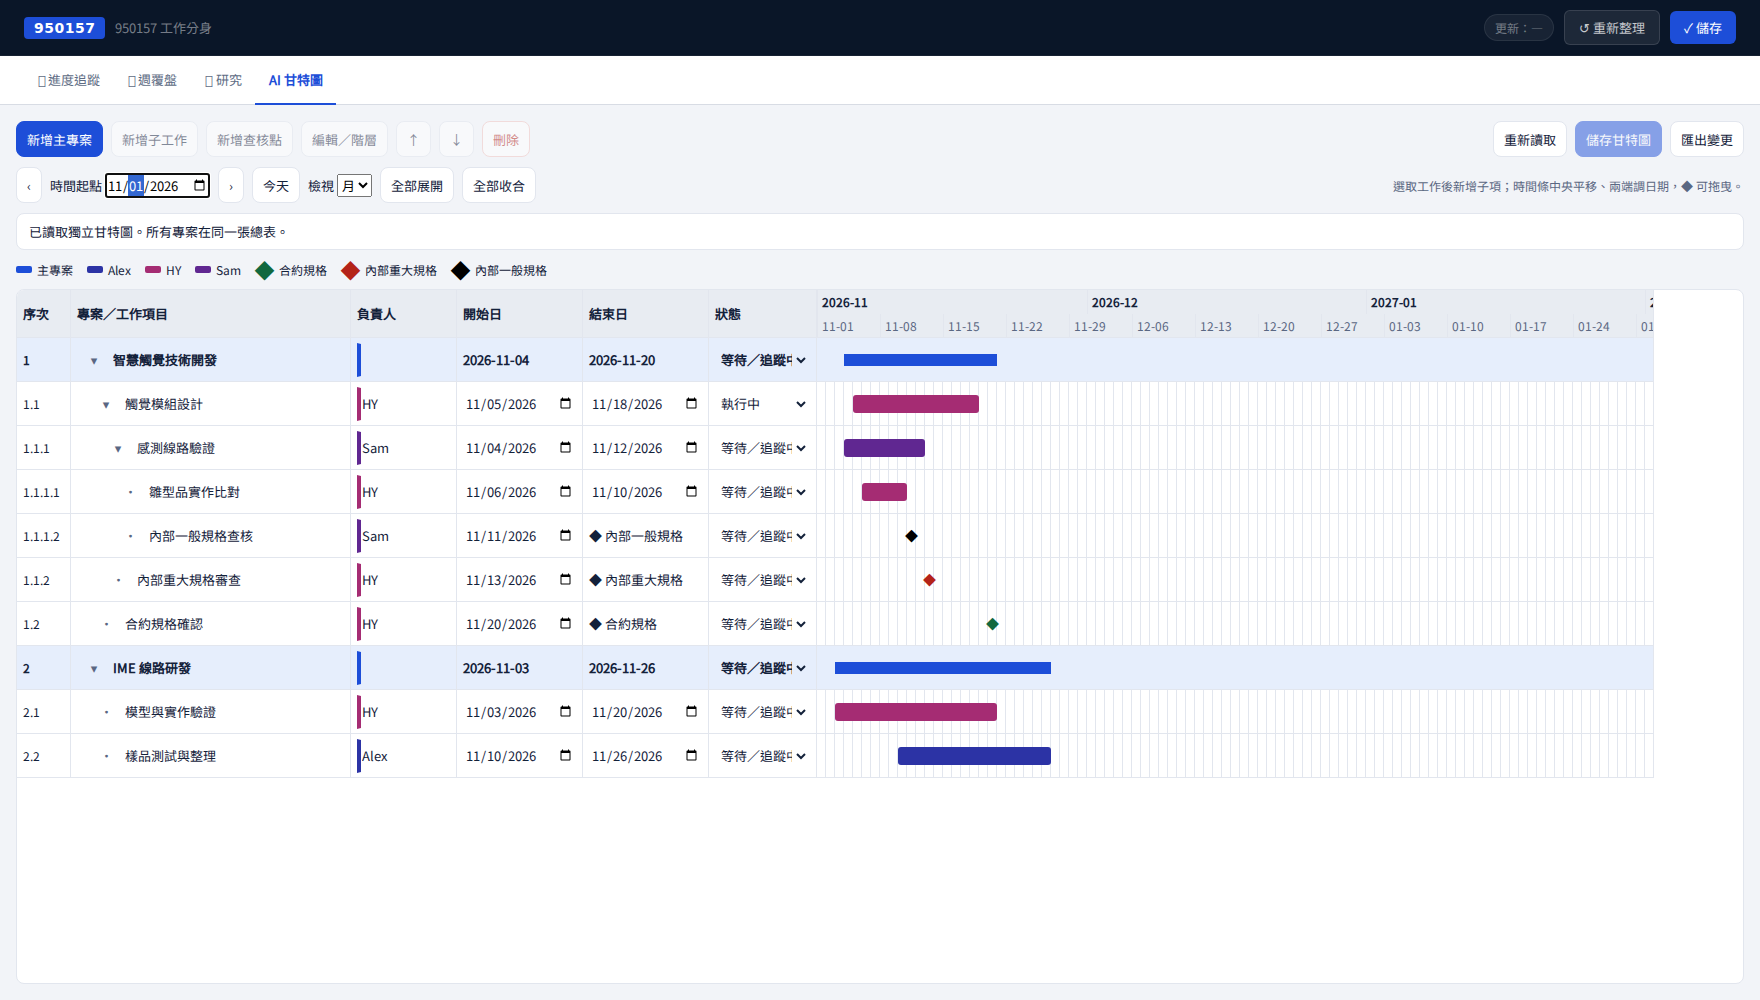
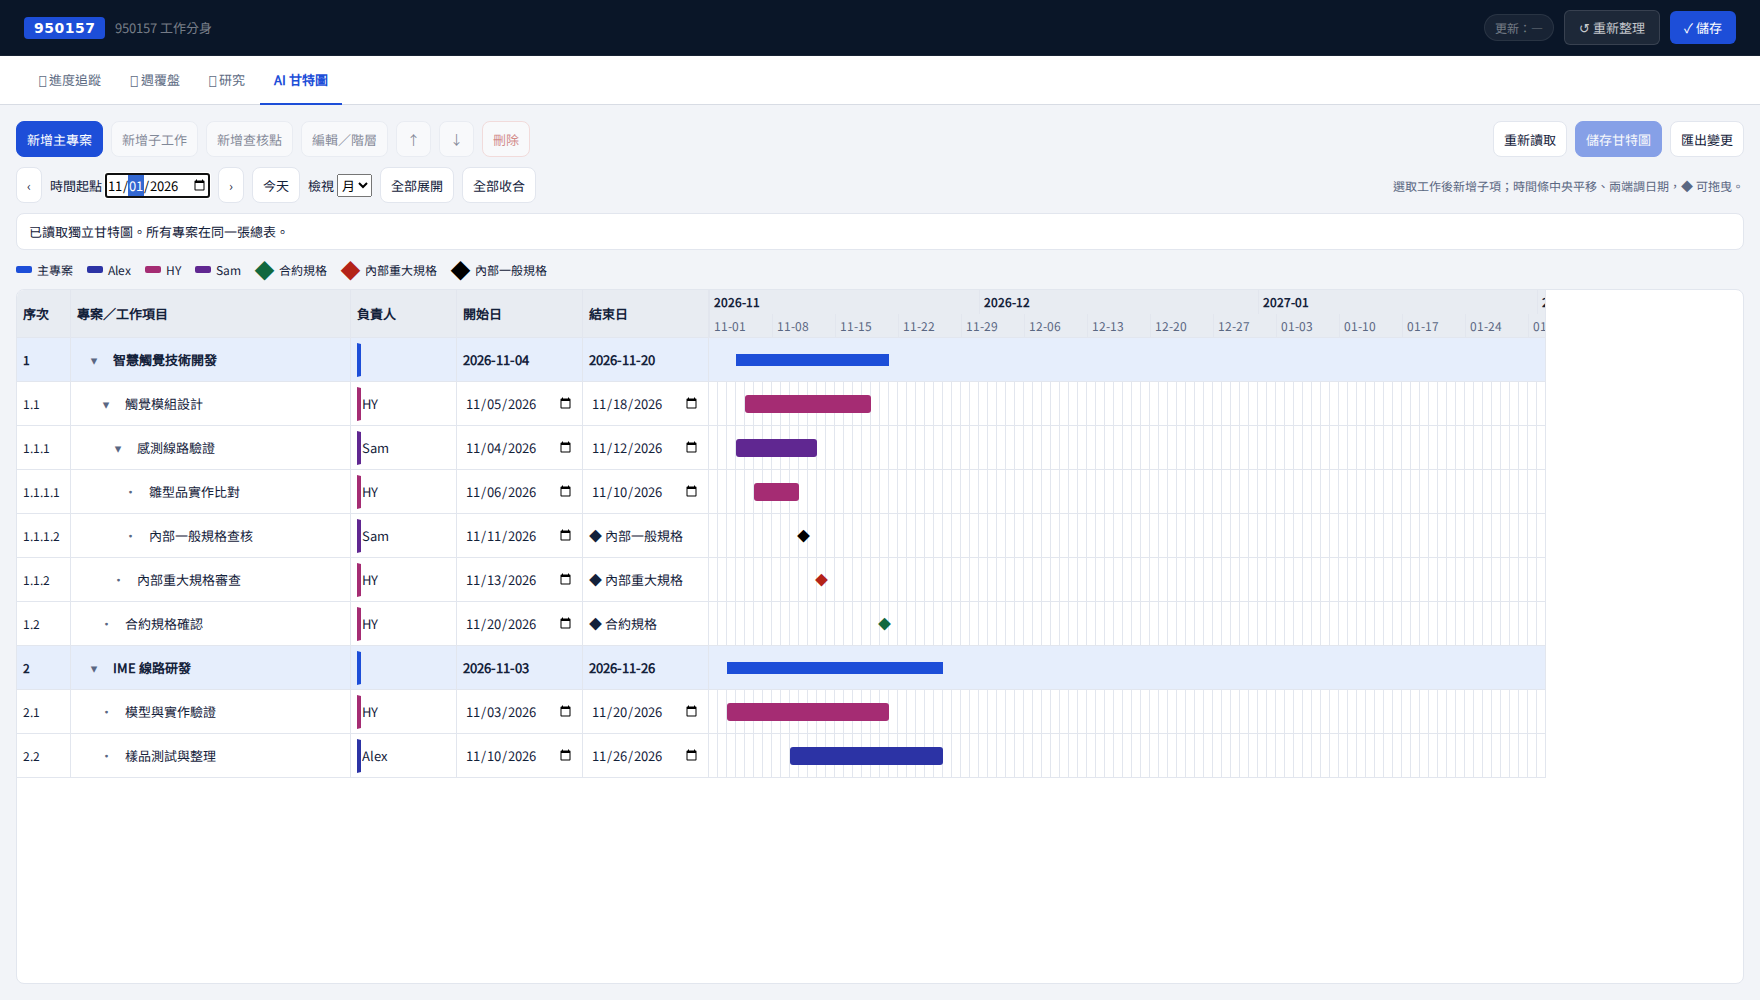
移除甘特圖狀態欄及編輯欄位，更新桌面驗收截圖

diff --git a/public/gantt-950157.css b/public/gantt-950157.css
@@ -3,7 +3,7 @@
 #gantt *{box-sizing:border-box}#gantt button,#gantt select,#gantt input{font:inherit}#gantt button{cursor:pointer}#gantt button:disabled{cursor:default;opacity:.5}
 .g-toolbar,.g-actions,.g-legend{display:flex;gap:8px;align-items:center;flex-wrap:wrap}.g-toolbar{justify-content:space-between}.g-actions .hy-btn{min-height:36px;padding:4px 10px}.g-note{color:var(--hy-muted);font-size:12px}.g-message{padding:8px 12px;border:1px solid var(--hy-line);background:var(--hy-surface);border-radius:var(--hy-r-sm)}.g-message[data-error=true]{background:var(--hy-bad-bg);color:var(--hy-bad)}
 .g-legend{font-size:12px;gap:6px 14px}.g-key{display:inline-flex;align-items:center;gap:5px}.g-swatch{width:16px;height:7px;border-radius:2px}.g-diamond{font-size:19px;line-height:1}.g-scroll{overflow:auto;min-height:180px;flex:1;border:1px solid var(--hy-line);background:var(--hy-surface);border-radius:var(--hy-r-sm);position:relative;max-height:calc(100dvh - 280px)}
-.g-grid{width:max-content;min-width:100%}.g-row{display:grid;grid-template-columns:54px 280px 106px 126px 126px 108px var(--g-width);height:44px;min-height:44px}.g-cell{border-right:1px solid var(--hy-line);border-bottom:1px solid var(--hy-line);padding:4px 6px;display:flex;align-items:center;min-width:0;background:var(--hy-surface)}.g-row.is-project .g-cell{background:var(--hy-ai-bg);font-weight:700}.g-row.is-selected .g-cell{box-shadow:inset 0 -2px var(--hy-brand)}
+.g-grid{width:max-content;min-width:100%}.g-row{display:grid;grid-template-columns:54px 280px 106px 126px 126px var(--g-width);height:44px;min-height:44px}.g-cell{border-right:1px solid var(--hy-line);border-bottom:1px solid var(--hy-line);padding:4px 6px;display:flex;align-items:center;min-width:0;background:var(--hy-surface)}.g-row.is-project .g-cell{background:var(--hy-ai-bg);font-weight:700}.g-row.is-selected .g-cell{box-shadow:inset 0 -2px var(--hy-brand)}
 .g-head{position:sticky;top:0;z-index:5;height:48px;min-height:48px;font-weight:700}.g-head .g-cell{background:var(--hy-sunken)}.g-name{position:sticky;left:0;z-index:2;gap:3px}.g-row input,.g-row select{width:100%;min-width:0;border:1px solid transparent;background:transparent;color:inherit;padding:4px 1px;height:34px;font-size:12px}.g-row input:hover,.g-row input:focus,.g-row select:focus{border-color:var(--hy-line);background:var(--hy-surface)}.g-toggle{flex:0 0 28px;width:28px;height:34px;border:0;background:none;color:var(--hy-muted)}.g-indent{flex-shrink:0}.g-number{font-size:12px;overflow:hidden;text-overflow:ellipsis;white-space:nowrap}.g-timeline{position:relative;padding:0;overflow:hidden;background-image:repeating-linear-gradient(to right,transparent 0,transparent calc(var(--g-unit) - 1px),var(--hy-line) calc(var(--g-unit) - 1px),var(--hy-line) var(--g-unit))}.g-tick{position:absolute;top:0;height:100%;font-size:12px;line-height:48px;border-left:1px solid var(--hy-line);padding-left:4px;white-space:nowrap}.g-bar{position:absolute;top:13px;height:18px;border:0;border-radius:3px;min-width:4px;touch-action:none;cursor:grab;color:var(--hy-surface);padding:0}.g-bar:focus-visible,.g-mark:focus-visible{outline:2px solid var(--hy-ink);outline-offset:3px}.g-bar.is-project{height:12px;top:16px;cursor:default;border-radius:0}.g-handle{position:absolute;top:-7px;width:12px;height:32px;cursor:ew-resize;touch-action:none}.g-handle.left{left:0}.g-handle.right{right:0}.g-mark{position:absolute;top:0;height:43px;width:28px;transform:translateX(-50%);background:none;border:0;touch-action:none;cursor:grab;font-size:24px;padding:0}.g-empty{padding:32px;max-width:380px;color:var(--hy-muted)}
 .g-dialog{border:1px solid var(--hy-line);border-radius:var(--hy-r-card);padding:20px;width:min(500px,calc(100vw - 24px));max-height:90dvh;overflow:auto;color:var(--hy-ink);background:var(--hy-surface)}.g-dialog::backdrop{background:rgba(11,26,51,.4)}.g-form{display:grid;gap:12px}.g-form h2{font-size:17px;margin:0}.g-form label{display:grid;gap:4px;font-size:13px}.g-form input,.g-form select{width:100%;min-height:44px;padding:8px;border:1px solid var(--hy-line);border-radius:var(--hy-r-sm);background:var(--hy-surface);color:var(--hy-ink)}.g-form footer{display:flex;justify-content:flex-end;gap:8px}.g-form-error{color:var(--hy-bad)}
 @media(max-width:640px){#gantt{padding:10px}.g-actions .hy-btn{min-height:44px}.g-toolbar{align-items:stretch}.g-toolbar>.g-actions{width:100%}.g-scroll{max-height:calc(100dvh - 390px);min-height:260px}.g-note{line-height:1.5}.g-toggle{height:44px}.g-row input,.g-row select{height:43px}.g-cell{padding-top:0;padding-bottom:0}.g-name{max-width:280px}.g-toolbar input,.g-toolbar select{min-height:44px;max-width:160px}}
@@ -11,4 +11,4 @@
 #gantt [hidden]{display:none}
 
 .g-tick{height:24px;line-height:24px}.g-tick.g-date{top:24px;color:var(--hy-muted);font-weight:400}
-@media(max-width:640px){.g-row{grid-template-columns:44px 180px 90px 112px 112px 100px var(--g-width)}.g-name{max-width:180px}}
+@media(max-width:640px){.g-row{grid-template-columns:44px 180px 90px 112px 112px var(--g-width)}.g-name{max-width:180px}}

diff --git a/docs/quality/950157-gantt-mvp.md b/docs/quality/950157-gantt-mvp.md
@@ -12,14 +12,14 @@
 | 編輯工具／讀取與儲存 | 編輯、讀取與儲存工具換行；按鈕至少 44px |
 | 時間起點、月／週、展開／收合 | 時間起點、月／週、展開／收合換行 |
 | 儲存訊息與顏色圖例 | 儲存訊息與顏色圖例 |
-| 左側六欄＋右側時間軸共用列 | 表格內雙向捲動，凍結工作名稱欄 |
+| 左側五欄＋右側時間軸共用列 | 表格內雙向捲動，凍結工作名稱欄 |
 
 自評：已檢查 1280px／390px。原有風格、單一焦點、錯誤與空資料狀態、44px 手機操作、表格列對齊、無頁面外層橫向溢位均通過。第一輪截圖後縮窄手機凍結名稱欄、加入週日期刻度，再重新截圖。
 
 ## 功能與操作
 
 - 新增主專案；選取任一專案或工作，再新增子工作、查核點。
-- 名稱、負責人、日期、狀態可直接編輯。「編輯／階層」可改父層，連同整個子樹重新歸屬專案，禁止循環與掛在查核點之下。
+- 名稱、負責人、日期可直接編輯。「編輯／階層」可改父層，連同整個子樹重新歸屬專案，禁止循環與掛在查核點之下。
 - ↑／↓ 調整同層順序。▸／▾ 展開收合，支援任意深度；測試超過 1,000 層，呈現縮排有上限以保留可讀寬度，資料階層沒有三層限制。
 - 刪除前顯示名稱及含子項的筆數並確認。
 - 主專案起訖自動取所有子工作與查核點的日期範圍，空專案顯示 —。
@@ -38,7 +38,7 @@
 
 ## 測試與截圖
 
-- `node --test tests/*.test.mjs`：118 通過。
+- `node --test tests/*.test.mjs`：119 通過。
 - `npm run build`：通過；既有大型 bundle 警告。
 - `node tests/gantt-ui.cjs`：隔離所有外部請求；驗證多專案、階層新增／移動／排序／收合／刪除、查核點 CRUD、三種色、負責人與主專案色、列對齊、四種拖曳、父專案日期、儲存重讀、第二頁面讀取、409／503、讀取失敗鎖定、原有分頁、手機無外層橫向溢位。
 - 後端對應測試與全套基準比較見後端 PR。未以正式服務寫入驗收，兩個 PR 都需使用者核准後才合併部署。
@@ -51,3 +51,7 @@
 以上為攔截 API 的示範資料，未混入使用者現有專案。機器可讀驗證結果：[qa.json](ui/gantt/qa.json)。
 
 本機重跑：`npm run dev -- --host 127.0.0.1 --port 5173 --strictPort`，安裝 Playwright／Chromium，另執行 `node tests/gantt-ui.cjs`。可用 `GANTT_BASE_URL` 指定預覽網址、`PLAYWRIGHT_MODULE` 指定套件路徑、`CHROMIUM_PATH` 指定瀏覽器；`GANTT_FONT` 是僅供隔離環境截圖的 Fontsource Noto Sans TC files 路徑。CI 會自動安裝瀏覽器並上傳截圖。
+
+## 驗收修訂
+
+依使用者回饋，移除表格與編輯視窗的狀態欄。既有資料的 status 僅為儲存契約相容而原樣保留，不新增完成／逾期判定功能。依本輪確認先完成桌面手動版，AI 文字修改與手機版優化暫緩。delay 先提出原訂範圍與目前排程並列、標註延後天數的方案，尚未新增。
